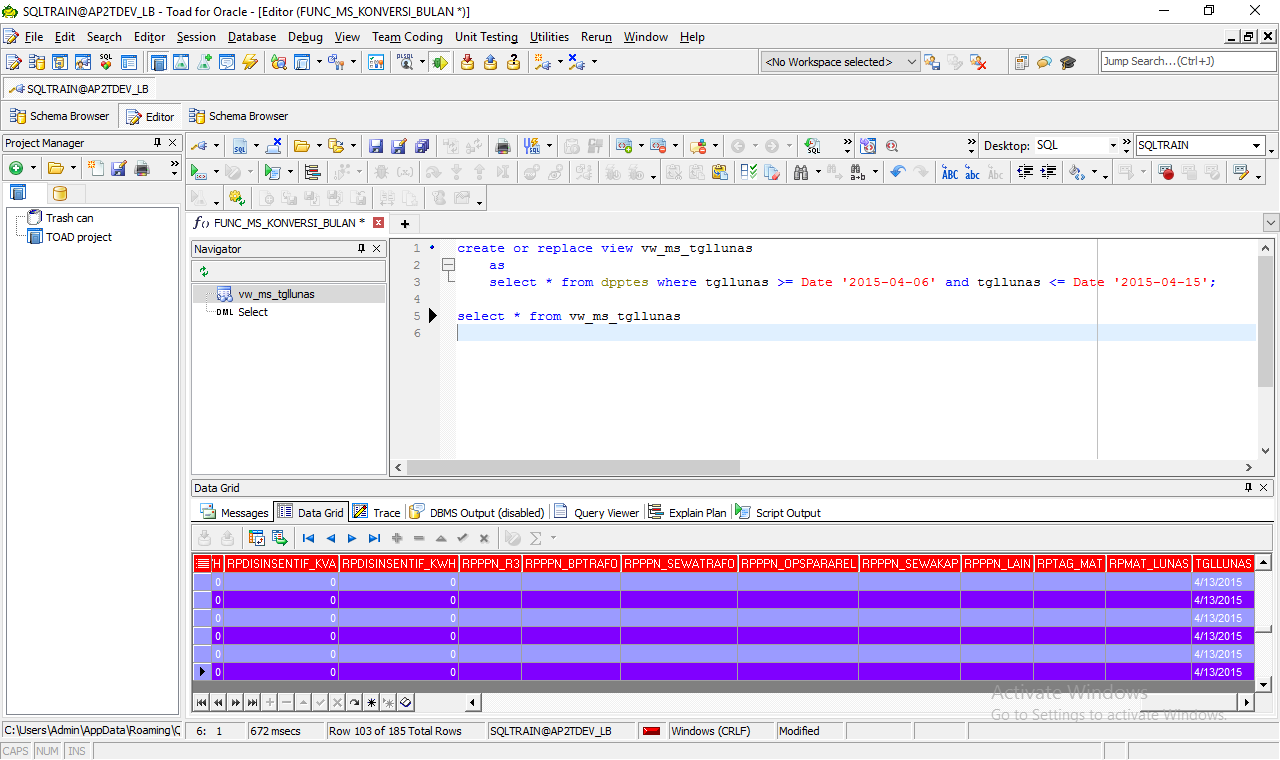
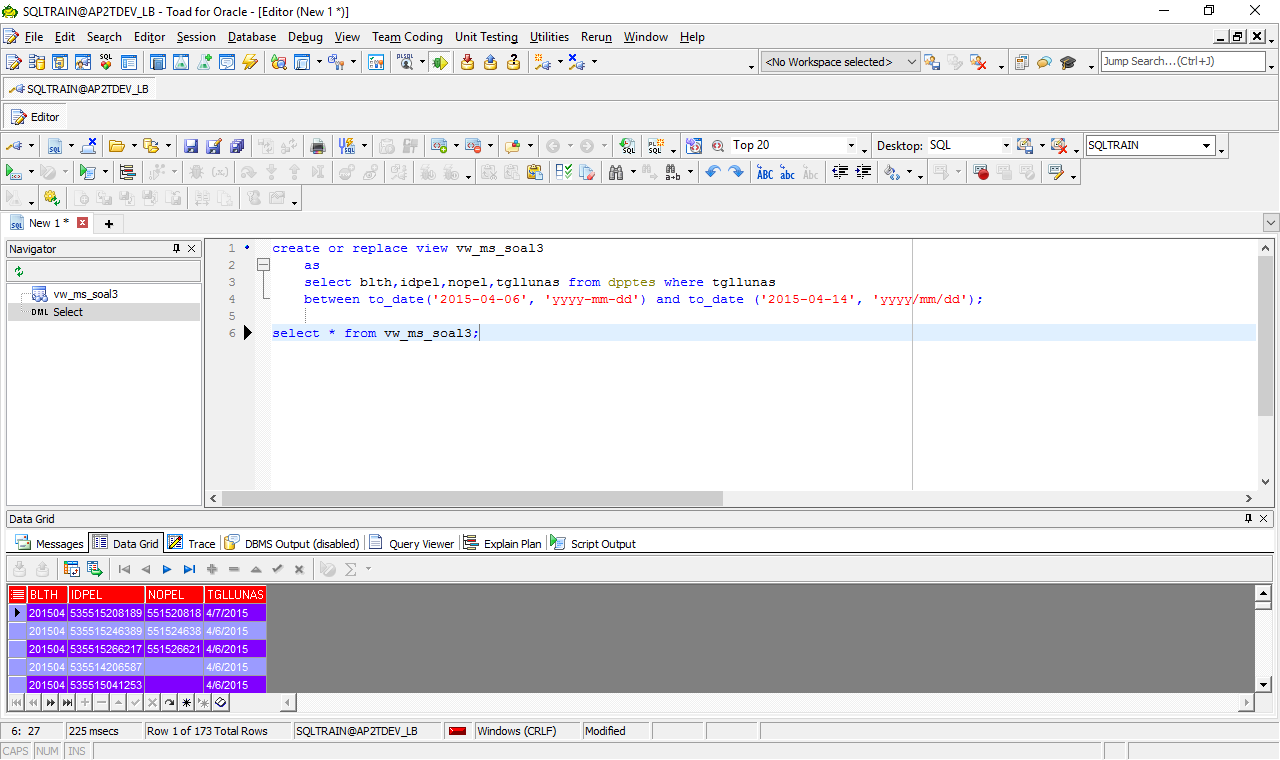
revisi script dan images

diff --git a/README.md b/README.md
@@ -4,14 +4,14 @@
 ## Tugas 1 ##
 ### Membuat tabel view dari dpptes yang kdgerakmasuk 11 dan kdgerakkeluar 23 atau 24 ###
 ```
-create or replace view vw_ms_test
+create or replace view vw_ms_soal1
     as 
-    select * from dpptes where kdgerakmasuk = 11 and kdgerakkeluar = 23 or kdgerakmasuk = 11 and kdgerakkeluar = 24;
+    select * from dpptes where kdgerakmasuk = '11' and kdgerakkeluar in ('23','24');
 ```
 
 ### Melihat hasil fungsi ###
 ```
-select * from vw_ms_test
+select * from vw_ms_soal1
 ```
 
 ![Gambar 1.0](images/tugas1_membuat_view.PNG)
@@ -20,14 +20,14 @@ select * from vw_ms_test
 ## Tugas 2 ##
 ###  Membuat tabel view dari dpptes yang rpptl diantara 1 juta sampai 10 juta ###
 ```
-create or replace view vw_ms_rpptl
+create or replace view vw_ms_soal2
     as 
-    select * from dpptes where rpptl >= 1000000 and rpptl <= 10000000;
+    select * from dpptes where rpptl between 1000000 and 10000000;
 ```
 
 ### Melihat hasil fungsi ###
 ```
-select * from vw_ms_rpptl
+select * from vw_ms_soal2
 ```
 
 ![Gambar 2.0](images/tugas2_membuat_view_rpptl.PNG)
@@ -35,14 +35,15 @@ select * from vw_ms_rpptl
 ## Tugas 3 ##
 ### Membuat tabel view dari tabel dpptes yang tgllunas dari tanggal 2015-04-06 sampai 2015-04-14 ###
 ```
-create or replace view vw_ms_tgllunas
+create or replace view vw_ms_soal3
     as 
-    select * from dpptes where tgllunas >= Date '2015-04-06' and tgllunas <= Date '2015-04-14';
+    select blth,idpel,nopel,tgllunas from dpptes where tgllunas 
+    between to_date('2015-04-06', 'yyyy-mm-dd') and to_date ('2015-04-14', 'yyyy/mm/dd');
 ```
 
 ### Melihat hasil fungsi ###
 ```
-select * from vw_ms_tgllunas
+select * from vw_ms_soal3
 ```
 
 ![Gambar 3.0](images/tugas3_membuat_view_by_tgllunas.PNG)
@@ -50,18 +51,18 @@ select * from vw_ms_tgllunas
 ## Tugas 4 ##
 ### Membuat function perkalian ###
 ```
-create or replace function func_ms_perkalian(in_param1 integer, in_param2 integer) return integer
+create or replace function func_ms_soal4(in_param1 integer, in_param2 integer) return integer
 as
-result integer;
+    result integer;
 begin
-result := in_param1 * in_param2;
-return result;
+    result := in_param1 * in_param2;
+    return result;
 end;
 ```
 
 ### Melihat hasil fungsi ###
 ```
-select sqltrain.func_ms_perkalian(5,5) result from dual;
+select sqltrain.func_ms_soal4(5,5) result from dual;
 ```
 
 ![Gambar 4.0](images/tugas4_membuat_function_perkalian.PNG)
@@ -69,16 +70,16 @@ select sqltrain.func_ms_perkalian(5,5) result from dual;
 ## Tugas 5 ##
 ### Membuat function tanggal hari ini ###
 ```
-create or replace function func_ms_tglhariini return varchar2
+create or replace function func_ms_soal5 return varchar2
 as
 begin
-return to_char(sysdate, 'DD/MM/YYYY HH:MM');
+    return to_char(sysdate, 'DD/MM/YYYY HH24:MI');
 end;
 ```
 
 ### Melihat hasil fungsi ###
 ```
-select sqltrain.func_ms_tglhariini result from dual;
+select sqltrain.func_ms_soal5 result from dual;
 ```
 
 ![Gambar 5.0](images/tugas5_membuat_function_tanggal_hari_ini.PNG)
@@ -86,7 +87,7 @@ select sqltrain.func_ms_tglhariini result from dual;
 ## Tugas 6 ##
 ### Membuat function konversi dari dua digit bulan ke nama bulan ###
 ```
-create or replace function func_ms_konversi_bulan(in_param integer) return varchar2
+create or replace function func_ms_soal6(in_param integer) return varchar2
 as
 result varchar2(100);
 begin
@@ -126,7 +127,7 @@ end;
 
 ### Melihat hasil fungsi ###
 ```
-select sqltrain.func_ms_konversi_bulan(03) result from dual;
+select sqltrain.func_ms_soal6(03) result from dual;
 ```
 
 ![Gambar 6.0](images/tugas6_membuat_function_konversi_dari_dua_digit_bulan_ke_nama_bulan.PNG)
